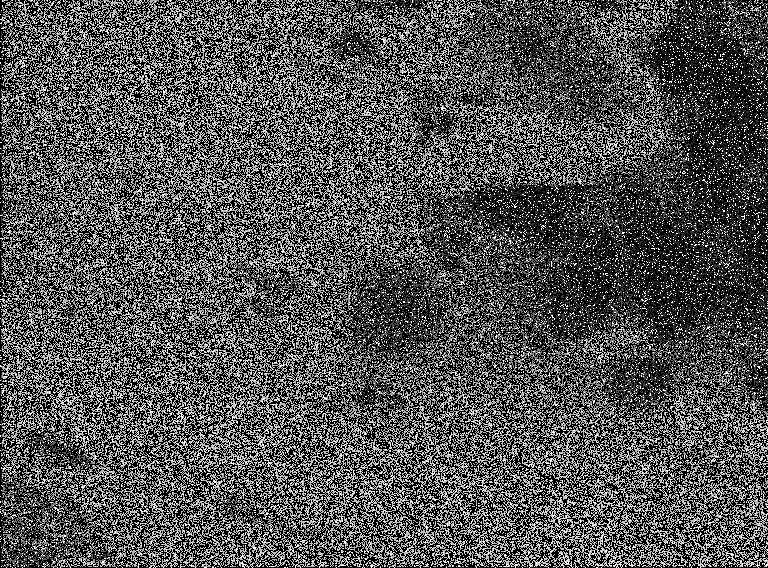
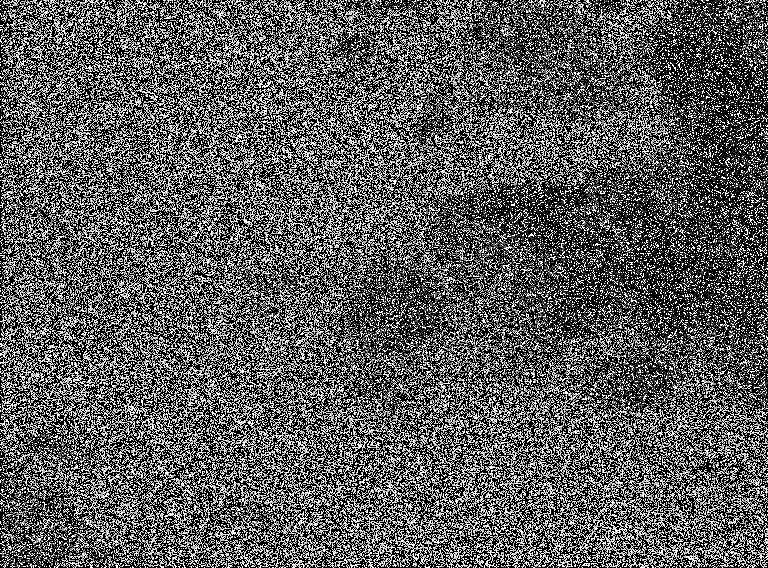
fix: gauss error

diff --git a/main.py b/main.py
@@ -3,6 +3,7 @@ import platform
 import sys
 import time
 import numpy as np
+from numpy.random import default_rng
 import matplotlib
 import yaml
 # import pandas as pd
@@ -92,6 +93,7 @@ def calc_histogram(image_file):
     return histogram
     
 # TODO translate my denoise code to work here if time
+# source from: https://github.com/BatmaniNRobin/CMSC-603-IMAGE-GREYSCALE-DENOISE/blob/main/main.cu
 # def denoise():
 #     cp.RawKernal = r'''__global__ void denoise(uchar *d_grey, uchar *d_output, int matrixHeight, int matrixWidth, int numPixels)
 #         {
@@ -137,6 +139,8 @@ def macaroni(img, strength):
     # add salt '255'
     num_pixels_white = random.randint(0, img.size)
     
+    # num_pixels_white = strength * num_pixels_white * ??
+    
     img_copy = np.copy(img)
     
     for i in range(num_pixels_white):
@@ -152,6 +156,8 @@ def macaroni(img, strength):
          
     # add pepper '0'
     number_of_pixels_black = random.randint(0, img.size)
+    
+    # num_pixels_black = strength * num_pixels_white * ??
     
     for i in range(number_of_pixels_black):
                  
@@ -169,8 +175,23 @@ def macaroni(img, strength):
 # adds guassaian noise to image
 # utilzed similar methods as scikit, uses np.random_normal then adds noise back to image
 # https://stackoverflow.com/questions/14435632/impulse-gaussian-and-salt-and-pepper-noise-with-opencv
-def domo_arrigato(img, sigma):
-    print("domo_arrigato")
+def domo_arrigato(img, strength):
+    # copies image
+    # copy_img = np.copy(img)
+    
+    mean = 0.0
+    
+    # using better statistical model
+    rng = default_rng()
+    # FIXME is strength used properly here?, are my dimensions right?
+    noise = rng.normal(mean, strength, img.size)
+    noise_reshape = noise.reshape(img.shape)
+    
+    copy_img = noise_reshape + img
+    
+    # print(type(copy_img)) # ndarray is good
+    
+    return copy_img
     
 
 # TODO remember to make copies and work on those, DO NOT WORK ON OG IMAGES
@@ -210,7 +231,7 @@ def main():
         # hist = kernel_calc_histogram(img, len(img))
     else:
         ts = time.perf_counter()
-        hist = calc_histogram(img)
+        # hist = calc_histogram(img)
         te = time.perf_counter()
     
     ts = time.perf_counter()
@@ -220,11 +241,11 @@ def main():
     timings = []
     timings.append(te - ts)
     
-    plt.hist(hist, bins=256, range=(0,256))
-    plt.title("cyl01.BMP")
-    plt.savefig(safe_conf["OUTPUT_DIR"] + "cyl01.png")
-    # plt.savefig(safe_conf["WIN_OUTPUT_DIR"] + "cyl01.png")
-    plt.close()
+    # plt.hist(hist, bins=256, range=(0,256))
+    # plt.title("cyl01.BMP")
+    # plt.savefig(safe_conf["OUTPUT_DIR"] + "cyl01.png")
+    # # plt.savefig(safe_conf["WIN_OUTPUT_DIR"] + "cyl01.png")
+    # plt.close()
     
     # add salt & pepper noise to images
     snp_img = macaroni(img, safe_conf["SNP_NOISE"])
@@ -237,7 +258,9 @@ def main():
     salt = Image.fromarray(snp_img)
     gauss = Image.fromarray(gaussian_img)
     salt.save("first.jpg", format="JPEG")
-    gauss.save(gauss, format="JPEG")
+    # FIXME    raise OSError(f"cannot write mode {im.mode} as JPEG") from e
+# OSError: cannot write mode F as JPEG
+    gauss.save("second.jpg", format="JPEG")
     
 
 # TODO:
